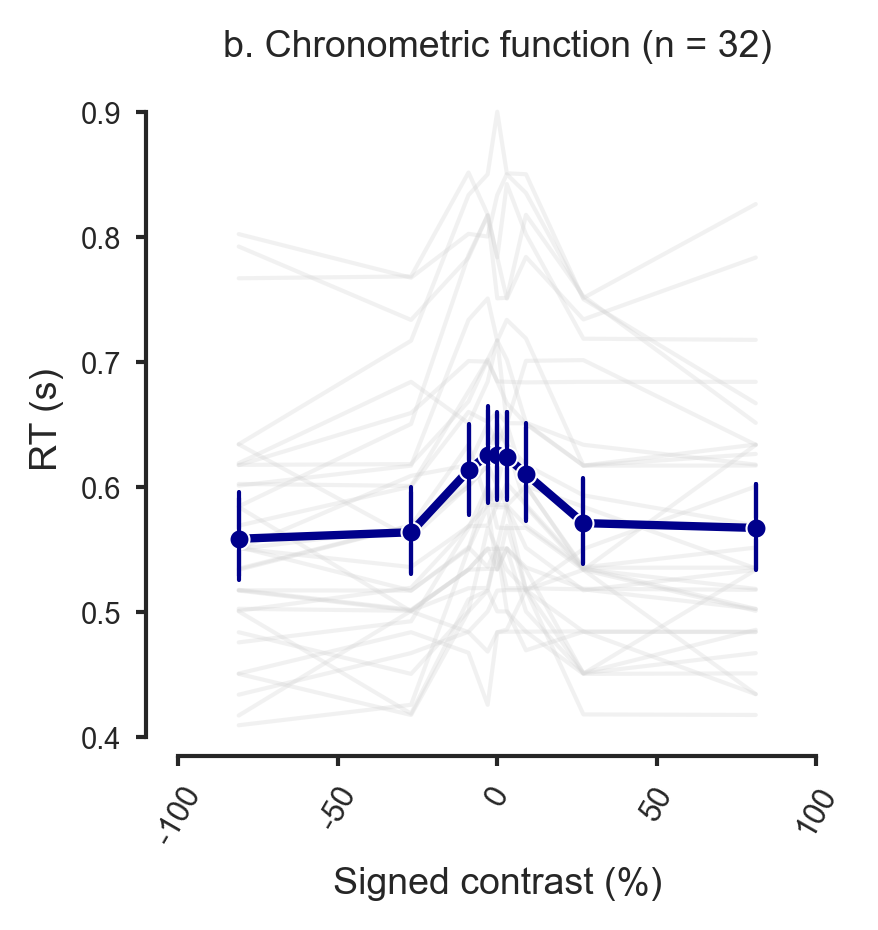
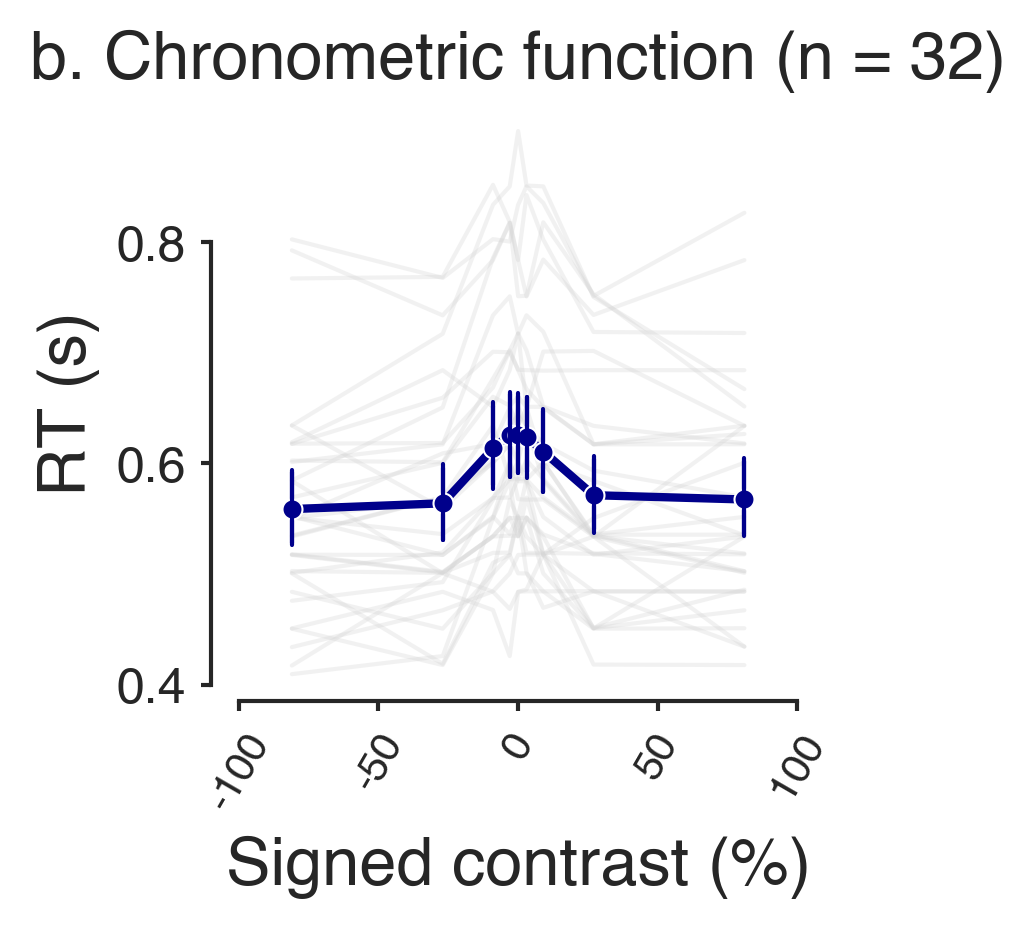
plotting for cogsci poster

diff --git a/src/plot_figure1a_plot_behavior.py b/src/plot_figure1a_plot_behavior.py
@@ -18,7 +18,7 @@ script_dir = os.path.dirname(os.path.realpath(__file__))
 
 # Construct the path to the data file
 dataset = 'ibl_trainingChoiceWorld'
-# dataset = 'visual_motion_2afc_fd'
+dataset = 'visual_motion_2afc_fd'
 
 fig_file_path = os.path.join(script_dir, '..', '..', '2023_choicehistory_HSSM','results', 'figures')
 data_file_path = os.path.join(script_dir, '..', '..', '2023_choicehistory_HSSM', 'data', dataset + '.csv')
@@ -114,6 +114,7 @@ fig.savefig(os.path.join(fig_file_path, "%s_rtdist_cleaned.png"%dataset), dpi=30
 data.head(n=10)
 if not 'prevfb' in data.columns:
       data['prevfb'] = (data.prevresp == data.prevstim)
+      data['prevresp'] = data['prevresp'].map({-1: 0, 1: 1})
 data['previous_trial'] = 100*data.prevfb + 10*data.prevresp  # for color coding
 print(data.groupby(['previous_trial'])[['prevfb', 'prevresp']].mean().reset_index())
 cmap = sns.color_palette("Paired")
@@ -127,9 +128,9 @@ hue_order = [0., +100.,  +10., +110.]
 # plot one curve for each animal, one panel per lab
 fig = sns.FacetGrid(data, hue='previous_trial', palette=cmap, hue_order=hue_order)
 fig.map(tools.plot_psychometric, "signed_contrast", "response", "subj_idx")
-fig.set_axis_labels('Signed contrast (%)', 'Rightward choice (%)')
+fig.set_axis_labels('Signed evidence (%)', 'Rightwards choice (%)')
 for axidx, ax in enumerate(fig.axes.flat):
-        ax.set_title('c. History-dependent psychometric')
+        ax.set_title('History bias')
 fig.despine(trim=True)
 fig.savefig(os.path.join(fig_file_path, "%s_psychfuncs_history.png"%dataset), dpi=300)
 plt.close('all')
@@ -139,7 +140,7 @@ fig = sns.FacetGrid(data, hue='previous_trial', palette=cmap, hue_order=hue_orde
 fig.map(tools.plot_chronometric, "signed_contrast", "rt", "subj_idx")
 fig.set_axis_labels('Signed contrast (%)', 'RT (s)')
 for axidx, ax in enumerate(fig.axes.flat):
-        ax.set_title('d. History-dependent chronometric')
+        ax.set_title('History-dependent chronometric')
         # ax.set_ylim([0, 3])
 fig.despine(trim=True)
 fig.savefig(os.path.join(fig_file_path, "%s_chronfuncs_history.png"%dataset), dpi=300)

diff --git a/src/utils_plot.py b/src/utils_plot.py
@@ -18,13 +18,13 @@ def seaborn_style():
     Set seaborn style for plotting figures
     """
     sns.set(style="ticks", context="paper",
-            font="Arial",
-            rc={"font.size": 9,
-                "axes.titlesize": 9,
-                "axes.labelsize": 9,
+            font="Helvetica",
+            rc={"font.size": 12,
+                "axes.titlesize": 16,
+                "axes.labelsize": 16,
                 "lines.linewidth": 1,
-                "xtick.labelsize": 7,
-                "ytick.labelsize": 7,
+                "xtick.labelsize": 12,
+                "ytick.labelsize": 12,
                 "savefig.transparent": False,
                 "savefig.dpi": 300,
                 "xtick.major.size": 2.5,
